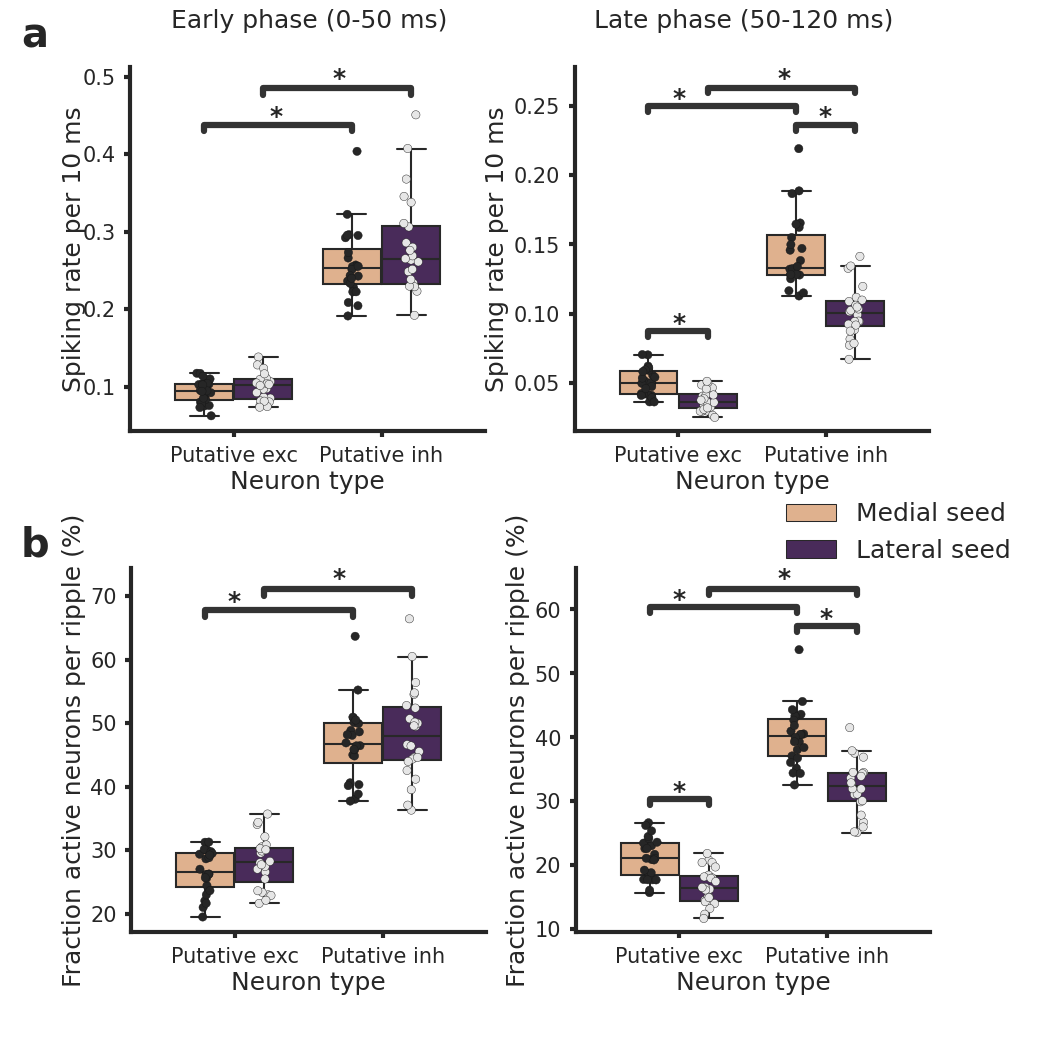
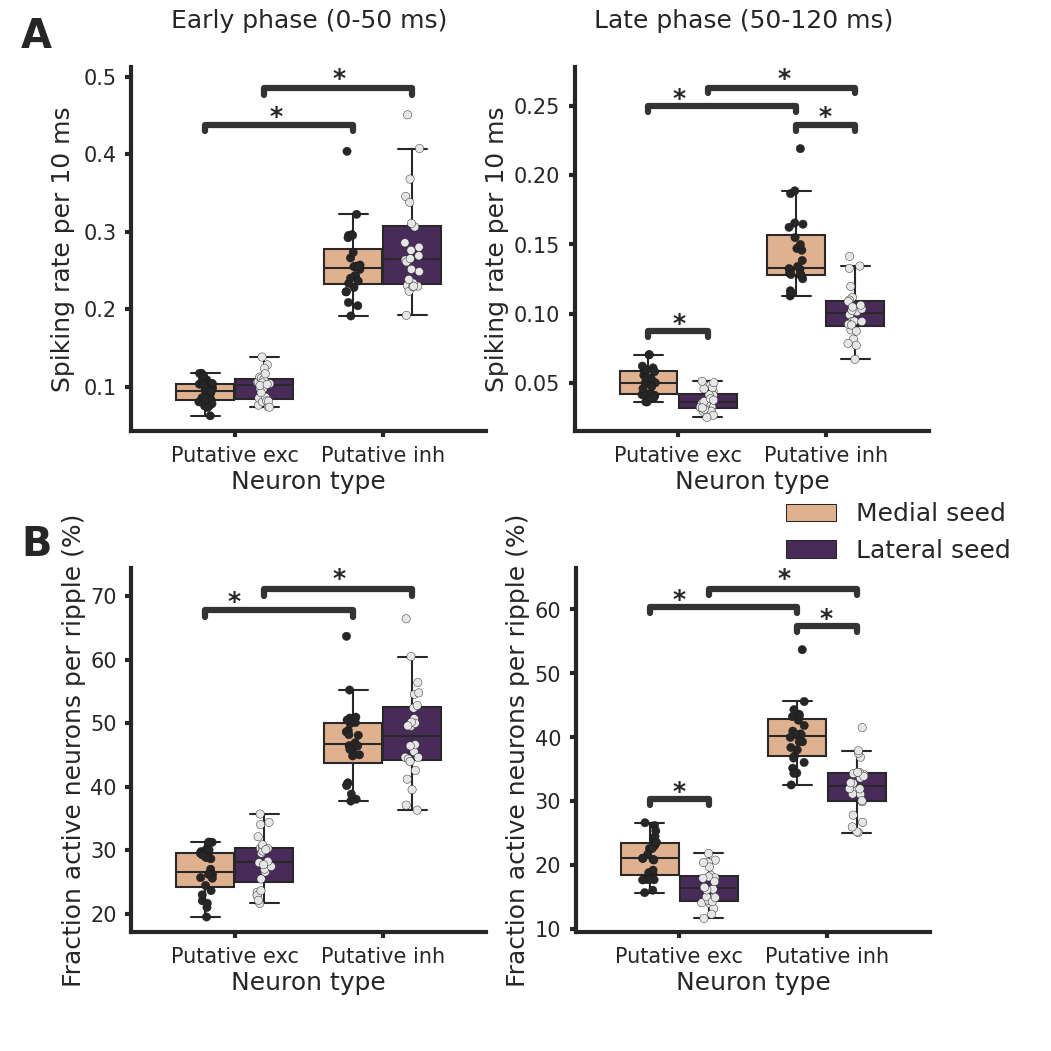
Save

diff --git a/Figures/Supplementary/Supplementary_Figure_clusters_per_ripple_and_spiking_rate_early_late_exc_inh.py b/Figures/Supplementary/Supplementary_Figure_clusters_per_ripple_and_spiking_rate_early_late_exc_inh.py
@@ -16,8 +16,12 @@ plt.figure(1).set_size_inches(8.900000/2.54, 8.900000/2.54, forward=True)
 plt.figure(1).axes[0].set_position([0.125000, 0.113318, 0.337458, 0.345966])
 plt.figure(1).axes[1].set_position([0.547727, 0.113318, 0.337458, 0.345966])
 plt.figure(1).axes[1].get_legend()._set_loc((0.564268, 0.987910))
-plt.figure(1).axes[2].set_position([0.123894, 0.589969, 0.337458, 0.345966])
+plt.figure(1).axes[2].set_ylim(0.043275815698154654, 0.5121126146247941)
+plt.figure(1).axes[2].set_yticks([0.1, 0.2, 0.30000000000000004, 0.4, 0.5])
+plt.figure(1).axes[2].set_yticklabels(["0.1", "0.2", "0.3", "0.4", "0.5"], fontsize=5)
+plt.figure(1).axes[2].set_position([0.125000, 0.589969, 0.337458, 0.345966])
 plt.figure(1).axes[2].yaxis.labelpad = -0.721239
+plt.figure(1).axes[2].yaxis.labelpad = 2.0
 plt.figure(1).axes[3].set_position([0.546621, 0.589969, 0.337458, 0.345966])
 plt.figure(1).text(0.5, 0.5, 'New Text', transform=plt.figure(1).transFigure)  # id=plt.figure(1).texts[0].new
 plt.figure(1).texts[0].set_position([0.020000, 0.954469])
@@ -97,10 +101,6 @@ plt.figure(1).texts[15].set_fontsize(6)
 plt.figure(1).texts[15].set_position([0.639385, 0.685011])
 plt.figure(1).texts[15].set_text("*")
 plt.figure(1).texts[15].set_weight("bold")
-
-if Adapt_for_Nature_style is True:
-    Naturize()
-
 #% end: automatic generated code from pylustrator
 #plt.show()
 

diff --git a/Figures/legends_supplementary.py b/Figures/legends_supplementary.py
@@ -65,7 +65,7 @@ legends_supplementary = {
    "Supplementary Figure 10. Spiking rate and fraction of active neurons are increased in the late phase post-ripple "
    "start in medial ripples both in putative excitatory and inhibitory neurons.":
       "(A) Average spiking rate in early (left) and late (right) phase post-ripple start grouped by ripple seed location and putative neuron identity. "
-      "Asterisks mean p<0.05, ANOVA with pairwise Tukey post-hoc test. "
+      "Asterisks mean p < 0.05, ANOVA with pairwise Tukey post-hoc test. "
       "(B) Fraction of active neurons per ripple in early (left) and late (right) phase post-ripple start grouped by ripple "
       "seed location and putative neuron identity. Asterisks mean p < 0.05, ANOVA with pairwise Tukey post-hoc test.",
 

diff --git a/Manuscript/De_Filippo_et_al_2022_supplementary.py b/Manuscript/De_Filippo_et_al_2022_supplementary.py
@@ -4,6 +4,6 @@ from Utils.Settings import manuscript_folder
 
 doc = DocxTemplate(f"{manuscript_folder}/Manuscript_supplementary_template.docx")
 context = {"legends": legends_supplementary}
-doc.render(context)
+doc.render(context, autoescape=True)
 doc.save(f"{manuscript_folder}/De Filippo et al., 2022_supplementary.docx")
 
